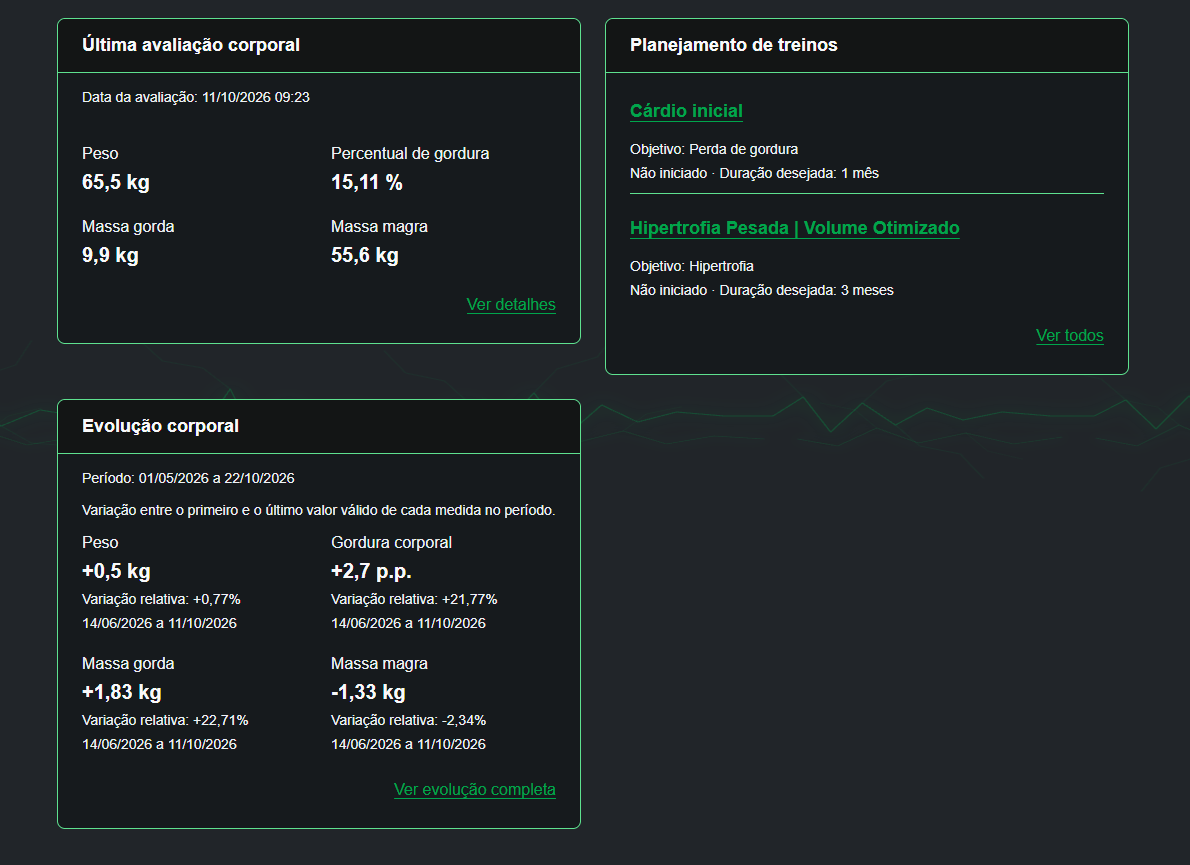
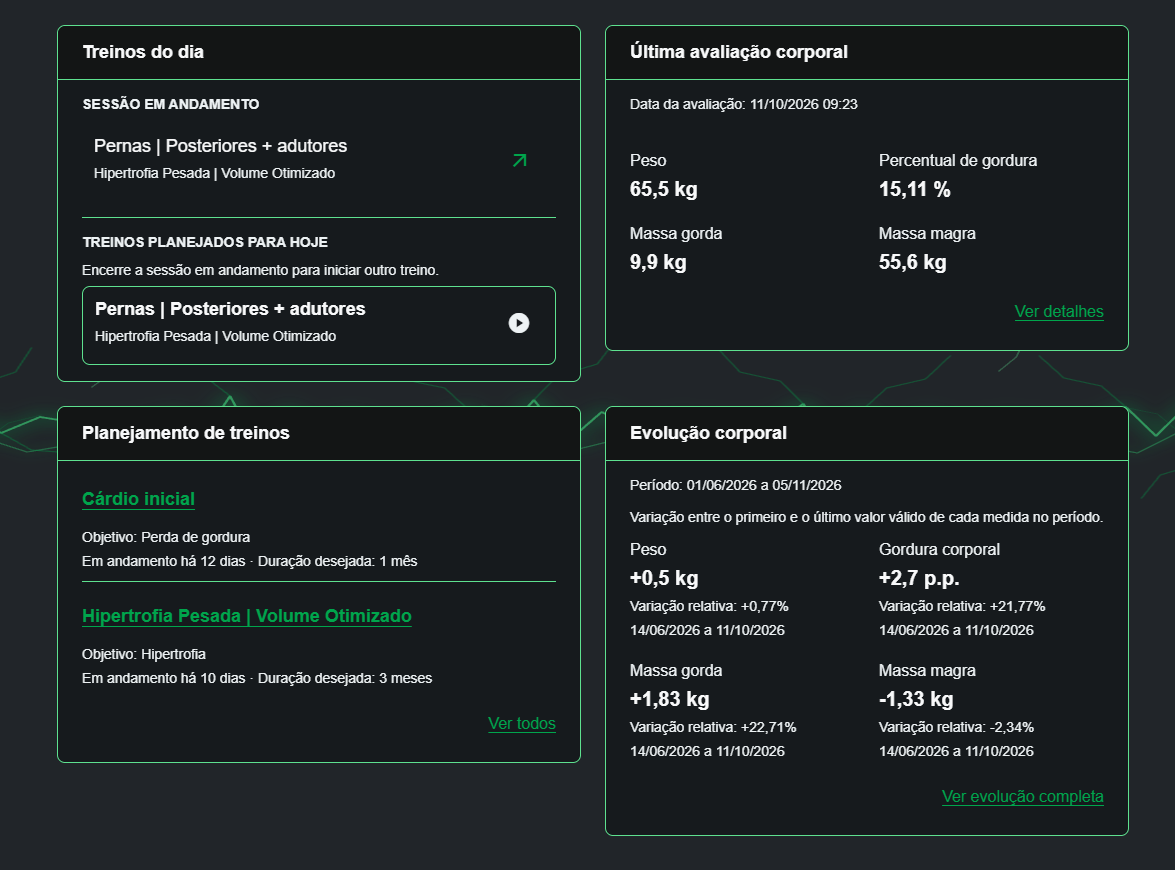
feat(showcase): add workout sessions and security updates

diff --git a/index.html b/index.html
@@ -13,7 +13,9 @@
 <meta property="og:description" content="O IronCore conecta avaliações corporais, exercícios e planejamento de treinos. Um lugar para acompanhar suas medidas e dar estrutura aos seus objetivos.">
 <meta property="og:url" content="https://renancvitor.github.io/ironcore-showcase/">
 <meta property="og:image" content="https://renancvitor.github.io/ironcore-showcase/assets/screenshots/01-home.png">
-<meta property="og:image:alt" content="Home real do IronCore com resumos de avaliação, evolução e planejamento.">
+<meta property="og:image:alt" content="Home real do IronCore com Treinos do dia, sessão em andamento, avaliação, planejamento e evolução corporal.">
+<meta property="og:image:width" content="1175">
+<meta property="og:image:height" content="870">
 <link rel="icon" type="image/svg+xml" href="assets/favicon.svg">
 <link rel="stylesheet" href="styles.css">
 <script src="script.js" defer></script>
@@ -32,13 +34,13 @@
 <div class="hero-actions"><a class="button primary" href="#funcionalidades">Ver funcionalidades <span aria-hidden="true">↓</span></a><a class="text-link" href="#engenharia">Engenharia do projeto <span aria-hidden="true">↗</span></a></div>
 <p class="hero-note">Capturas reais da aplicação</p></div>
 <div class="hero-visual"><div class="frame-label"><span class="tiny-mark" aria-hidden="true">IC /</span> VISÃO GERAL <span class="frame-right">01</span></div><figure class="capture">
-<a class="capture-link" href="assets/screenshots/01-home.png" data-image aria-label="Ampliar: Home: última avaliação corporal, evolução de medidas e resumo dos ciclos de treino.">
-<img src="assets/screenshots/01-home.png" width="1190" height="865" alt="Home: última avaliação corporal, evolução de medidas e resumo dos ciclos de treino." fetchpriority="high" decoding="async">
-</a><figcaption><span>Home com resumos de avaliação, evolução corporal e planejamento.</span><span class="expand-hint" aria-hidden="true">Ampliar ↗</span></figcaption></figure></div>
+<a class="capture-link" href="assets/screenshots/01-home.png" data-image aria-label="Ampliar: Home com Treinos do dia, sessão em andamento, avaliação, planejamento e evolução corporal.">
+<img src="assets/screenshots/01-home.png" width="1175" height="870" alt="Home com Treinos do dia, sessão em andamento, avaliação, planejamento e evolução corporal." fetchpriority="high" decoding="async">
+</a><figcaption><span>Treinos do dia e acesso à sessão em andamento, junto aos resumos de avaliação, planejamento e evolução corporal.</span><span class="expand-hint" aria-hidden="true">Ampliar ↗</span></figcaption></figure></div>
 </section>
 <section id="funcionalidades" class="journey container" aria-label="Funcionalidades do IronCore">
 <p class="eyebrow">FUNCIONALIDADES DA APLICAÇÃO</p>
-<div class="journey-links"><a href="#avaliacao"><span>01 / ACOMPANHAR</span><strong>Avaliação e evolução <span aria-hidden="true">↗</span></strong></a><a href="#exercicios"><span>02 / CONHECER</span><strong>Catálogo de exercícios <span aria-hidden="true">↗</span></strong></a><a href="#treinos"><span>03 / ORGANIZAR</span><strong>Planejamento de treinos <span aria-hidden="true">↗</span></strong></a></div>
+<div class="journey-links"><a href="#avaliacao"><span>01 / ACOMPANHAR</span><strong>Avaliação e evolução <span aria-hidden="true">↗</span></strong></a><a href="#exercicios"><span>02 / CONHECER</span><strong>Catálogo de exercícios <span aria-hidden="true">↗</span></strong></a><a href="#treinos"><span>03 / ORGANIZAR</span><strong>Planejamento de treinos <span aria-hidden="true">↗</span></strong></a><a href="#sessoes"><span>04 / REGISTRAR</span><strong>Execução e evolução de treinos <span aria-hidden="true">↗</span></strong></a></div>
 </section>
 <section id="avaliacao" class="section container" aria-labelledby="avaliacao-title">
 <div class="feature-layout"><div class="feature-copy"><p class="eyebrow">01 / AVALIAÇÃO E EVOLUÇÃO</p><h2 id="avaliacao-title">Avaliações corporais.<br><em>Histórico e evolução.</em></h2><p>Registre avaliações e reúna peso, composição corporal e circunferências. Consulte o histórico para entender o que mudou ao longo do tempo.</p>
@@ -77,7 +79,7 @@
 <section id="treinos" class="section container" aria-labelledby="treinos-title">
 <div class="feature-layout"><div class="feature-copy"><p class="eyebrow">03 / PLANEJAMENTO DE TREINOS</p><h2 id="treinos-title">Planejamento de treinos.<br><em>Ciclos, dias e atividades.</em></h2><p>Estruture ciclos de treino, distribua os dias e escolha exercícios do catálogo para compor cada atividade.</p>
 <ul class="feature-list"><li><strong>Do ciclo à atividade</strong><span>Objetivos, dias e exercícios organizados em uma composição que pode ser consultada e ajustada.</span></li><li><strong>Prescrição em detalhe</strong><span>Séries, repetições, carga, duração, distância e descanso podem coexistir conforme o planejamento.</span></li></ul>
-<p class="scope-note"><strong>O escopo desta fase</strong> O IronCore organiza o planejamento. Registro e histórico de sessões executadas ainda não estão implementados.</p></div><div><figure class="capture">
+<p class="scope-note"><strong>Planejamento e execução</strong> Workout Planning define a prescrição. <a href="#sessoes">Workout Session</a> registra o que foi realmente executado, sem preencher automaticamente os valores planejados.</p></div><div><figure class="capture">
 <a class="capture-link" href="assets/screenshots/09-treino-detalhes.png" data-image aria-label="Ampliar: Detalhe de ciclo com objetivo, dia de treino e atividade com séries, repetições, carga e descanso.">
 <img src="assets/screenshots/09-treino-detalhes.png" width="1225" height="935" alt="Detalhe de ciclo com objetivo, dia de treino e atividade com séries, repetições, carga e descanso." loading="lazy" decoding="async">
 </a><figcaption><span>Do objetivo aos detalhes de cada atividade.</span><span class="expand-hint" aria-hidden="true">Ampliar ↗</span></figcaption></figure></div></div>
@@ -93,14 +95,37 @@
 </a><figcaption><span>Escolha exercícios dentro do planejamento.</span><span class="expand-hint" aria-hidden="true">Ampliar ↗</span></figcaption></figure></div>
 <div class="gallery-controls" hidden><button type="button" data-prev aria-label="Imagem anterior — Construindo o planejamento">←</button><p class="gallery-status" aria-live="polite" aria-atomic="true"></p><button type="button" data-next aria-label="Próxima imagem — Construindo o planejamento">→</button></div></div>
 </section>
+<section id="sessoes" class="section section-tinted" aria-labelledby="sessoes-title"><div class="container">
+<div class="feature-layout"><div class="feature-copy"><p class="eyebrow">04 / EXECUÇÃO E EVOLUÇÃO DE TREINOS</p><h2 id="sessoes-title">Sessões de treino.<br><em>Registro e evolução.</em></h2><p>Inicie uma sessão a partir do planejamento, continue o treino em andamento e encerre quando terminar. Workout Session reúne os registros reais de execução e preserva as informações do treino no histórico.</p>
+<ul class="feature-list"><li><strong>O que foi executado</strong><span>Registre séries, cargas e repetições, além de duração, distância e relatos. Os dados podem ser parciais: a prescrição permanece como referência.</span></li><li><strong>Histórico que preserva o treino</strong><span>Consulte sessões encerradas por nome e período, com datas e informações preservadas mesmo após mudanças no planejamento.</span></li><li><strong>Evolução a partir dos registros</strong><span>Acompanhe carga e volume de força; para cardio, distância, duração, pace e velocidade média. Os indicadores usam os dados executados informados à aplicação.</span></li></ul>
+<p class="scope-note">A navegação de Treinos reúne planejamento, sessão em andamento, histórico e evolução. A Home oferece atalhos para iniciar ou continuar os treinos do dia.</p></div><div><figure class="capture">
+<a class="capture-link" href="assets/screenshots/12-sessao-visao-geral.png" data-image aria-label="Ampliar: Sessão de treino em andamento com status, datas, ciclo e prescrição do exercício.">
+<img src="assets/screenshots/12-sessao-visao-geral.png" width="1240" height="892" alt="Sessão de treino em andamento com status, datas, ciclo e prescrição do exercício." loading="lazy" decoding="async">
+</a><figcaption><span>A sessão iniciada mantém a prescrição como referência para o registro.</span><span class="expand-hint" aria-hidden="true">Ampliar ↗</span></figcaption></figure></div></div>
+<div class="gallery" data-gallery role="region" aria-label="Da execução à evolução dos treinos">
+<div class="gallery-heading"><h3>Da execução à evolução dos treinos</h3><span class="gallery-help">Explore as capturas</span></div>
+<div class="slides"><figure class="capture">
+<a class="capture-link" href="assets/screenshots/13-sessao-registro-execucao.png" data-image aria-label="Ampliar: Registro de execução do levantamento terra com modo de carga, cargas e repetições por série.">
+<img src="assets/screenshots/13-sessao-registro-execucao.png" width="1235" height="895" alt="Registro de execução do levantamento terra com modo de carga, cargas e repetições por série." loading="lazy" decoding="async">
+</a><figcaption><span>Cargas e repetições efetivamente registradas em cada série.</span><span class="expand-hint" aria-hidden="true">Ampliar ↗</span></figcaption></figure>
+<figure class="capture">
+<a class="capture-link" href="assets/screenshots/14-sessoes-historico.png" data-image aria-label="Ampliar: Histórico de sessões encerradas com busca, filtros de período, datas e informações preservadas dos treinos.">
+<img src="assets/screenshots/14-sessoes-historico.png" width="1710" height="891" alt="Histórico de sessões encerradas com busca, filtros de período, datas e informações preservadas dos treinos." loading="lazy" decoding="async">
+</a><figcaption><span>Consulte treinos encerrados e abra os registros de cada sessão.</span><span class="expand-hint" aria-hidden="true">Ampliar ↗</span></figcaption></figure>
+<figure class="capture">
+<a class="capture-link" href="assets/screenshots/15-treinos-evolucao-volume.png" data-image aria-label="Ampliar: Captura parcial da evolução de volume de força registrado, com gráfico e tabela em kg-rep, sem o cabeçalho da página.">
+<img src="assets/screenshots/15-treinos-evolucao-volume.png" width="1235" height="937" alt="Captura parcial da evolução de volume de força registrado, com gráfico e tabela em kg-rep, sem o cabeçalho da página." loading="lazy" decoding="async">
+</a><figcaption><span>Volume de força executado no gráfico e na tabela. Captura parcial, sem o cabeçalho da página.</span><span class="expand-hint" aria-hidden="true">Ampliar ↗</span></figcaption></figure></div>
+<div class="gallery-controls" hidden><button type="button" data-prev aria-label="Imagem anterior — Da execução à evolução dos treinos">←</button><p class="gallery-status" aria-live="polite" aria-atomic="true"></p><button type="button" data-next aria-label="Próxima imagem — Da execução à evolução dos treinos">→</button></div></div>
+</div></section>
 <section id="engenharia" class="section engineering" aria-labelledby="engenharia-title"><div class="container">
 <div class="section-intro"><div><p class="eyebrow">POR TRÁS DO IRONCORE</p><h2 id="engenharia-title">Decisões de arquitetura.<br><em>Da interface à produção.</em></h2></div><p>Responsabilidades explícitas, regras no domínio e evolução incremental. Conheça as decisões que dão estrutura à aplicação.</p></div>
 <div class="architecture" aria-label="Responsabilidades da arquitetura"><div><span class="eyebrow">APRESENTAR</span><h3>Angular 21</h3><p>Interação, navegação e estados da interface.</p><span>TypeScript · SCSS</span></div><span class="connector" aria-hidden="true">↔</span><div><span class="eyebrow">VALIDAR E COORDENAR</span><h3>Java 21 + Spring Boot 3.5</h3><p>API REST, casos de uso e regras de domínio.</p><span>Autorização · Integridade</span></div><span class="connector" aria-hidden="true">↔</span><div><span class="eyebrow">PERSISTIR</span><h3>PostgreSQL</h3><p>Dados relacionais e evolução versionada do schema.</p><span>JPA · Flyway</span></div></div>
 <div class="engineering-grid">
 <article><span class="tech-index">01 / FRONTEND</span><h3>Organização para evoluir</h3><p>Angular standalone separa infraestrutura global, componentes compartilhados, layout e funcionalidades. Rotas carregadas sob demanda evitam carregar todas as telas na entrada.</p><p>O catálogo é reutilizado na seleção de exercícios do treino, com contexto local de filtros. A interface apresenta os dados; cálculos e regras de negócio permanecem na API.</p><a class="text-link" href="https://github.com/renancvitor/ironcore-frontend/blob/main/docs/architecture/README.md">Arquitetura do frontend ↗</a></article>
 <article><span class="tech-index">02 / BACKEND</span><h3>Regras com um lugar definido</h3><p>A arquitetura em camadas, inspirada em DDD, separa domínio, aplicação, interfaces REST e infraestrutura. Controllers delegam a casos de uso; adapters implementam a persistência.</p><p>É uma abordagem pragmática: o domínio permanece independente de frameworks, enquanto a camada de aplicação utiliza serviços Spring.</p><a class="text-link" href="https://github.com/renancvitor/ironcore-backend/blob/main/docs/architecture/README.md">Arquitetura do backend ↗</a></article>
-<article><span class="tech-index">03 / DADOS</span><h3>Estrutura que acompanha o domínio</h3><p>PostgreSQL mantém as relações entre pessoas, avaliações, ciclos, dias e atividades. Flyway versiona alterações de schema e dados iniciais para reproduzir a evolução do banco entre ambientes.</p><p>Conta de acesso e pessoa são conceitos separados. As avaliações e os ciclos pertencem à pessoa vinculada ao usuário autenticado.</p><a class="text-link" href="https://github.com/renancvitor/ironcore-backend/blob/main/docs/database/README.md">Banco e migrations ↗</a></article>
-<article><span class="tech-index">04 / SEGURANÇA</span><h3>Autorização além da tela</h3><p>A aplicação usa JWT em cookie HttpOnly e Secure, com proteção CSRF nas operações de escrita. A interface restaura a sessão pela API sem persistir o token no armazenamento do navegador.</p><p>O backend verifica a propriedade dos recursos pela pessoa autenticada. O escopo atual é de usuário único, sem cadastro público.</p><a class="text-link" href="https://github.com/renancvitor/ironcore-backend/blob/main/docs/users/README.md">Autenticação e acesso ↗</a></article>
+<article><span class="tech-index">03 / DADOS</span><h3>Estrutura que acompanha o domínio</h3><p>PostgreSQL mantém avaliações, planejamento, sessões de treino, atividades e séries executadas, além das sessões de autenticação. Flyway versiona a evolução do schema.</p><p>As sessões de treino preservam uma cópia das informações do planejamento para manter o histórico. Os registros pertencem à pessoa vinculada ao usuário autenticado; conta de acesso e pessoa continuam como conceitos separados.</p><a class="text-link" href="https://github.com/renancvitor/ironcore-backend/blob/v1.3.0/docs/database/README.md">Banco e migrations ↗</a></article>
+<article><span class="tech-index">04 / SEGURANÇA</span><h3>Autorização além da tela</h3><p>Na aplicação IronCore, as sessões autenticadas são persistidas no PostgreSQL. Além de conferir a assinatura do JWT, o servidor verifica se a sessão continua válida. O access token usa cookie Secure e HttpOnly; o refresh token tem rotação e uso único.</p><p>Logout e alterações de senha revogam sessões anteriores. Há expiração por inatividade, limite absoluto de sessão, proteção CSRF e controle de tentativas de autenticação.</p><p>O frontend coordena a recuperação da sessão entre abas, sem armazenar tokens no JavaScript e sem repetir escritas automaticamente. O backend verifica a propriedade dos recursos. Este showcase é estático e não autentica usuários.</p><a class="text-link" href="https://github.com/renancvitor/ironcore-backend/blob/v1.3.0/docs/users/README.md">Autenticação e acesso ↗</a> · <a class="text-link" href="https://github.com/renancvitor/ironcore-frontend/blob/v1.2.0/docs/architecture/README.md#recuperação-e-coordenação-de-sessão">Recuperação no frontend ↗</a></article>
 <article><span class="tech-index">05 / QUALIDADE</span><h3>Testar em mais de uma camada</h3><p>Vitest verifica serviços, componentes e fluxos do frontend com HTTP simulado. No backend, JUnit e Mockito cobrem regras e casos de uso; testes de integração exercitam persistência e contratos REST.</p><p>Testcontainers aplica migrations em PostgreSQL temporário, verificando a compatibilidade entre o código e o schema real.</p><a class="text-link" href="https://github.com/renancvitor/ironcore-backend/blob/main/docs/testing/README.md">Estratégia de testes ↗</a></article>
 <article><span class="tech-index">06 / ENTREGA</span><h3>Publicações independentes</h3><p>GitHub Actions executa build e testes. No backend, o deploy automático sucede o CI aprovado na main e repete a verificação antes de enviar o artefato à VPS.</p><p>O frontend é publicado pela integração do Cloudflare Pages com GitHub, independente do CI. Essa separação exige manter os contratos compatíveis durante as atualizações.</p><a class="text-link" href="https://github.com/renancvitor/ironcore-frontend/blob/main/docs/deploy/README.md">Fluxo de publicação ↗</a></article>
 </div>
@@ -108,7 +133,7 @@
 <ol class="infra-list"><li><span>INTERFACE</span><strong>Cloudflare Pages</strong><small>Aplicação Angular estática</small></li><li><span>API · CANADÁ</span><strong>OVHcloud + Caddy</strong><small>VPS com Spring Boot e proxy reverso HTTPS</small></li><li><span>BANCO · SÃO PAULO</span><strong>Supabase PostgreSQL</strong><small>Conexão TLS a partir do backend</small></li></ol></div>
 <p class="source-note">Infraestrutura conforme documentação consultada em 22/10/2026. <a href="docs/fontes.md">Fontes e notas de revisão ↗</a></p>
 </div></section>
-<section id="historia" class="section container story" aria-labelledby="historia-title"><div><p class="eyebrow">UM PROJETO PESSOAL</p><h2 id="historia-title">Construído em etapas.<br><em>Aberto para conhecer.</em></h2></div><div><p>O IronCore nasceu como aplicação prática de backend, com foco em modelagem de domínio e evolução incremental. A primeira fase reúne a API e a interface Angular, integradas e implantadas.</p><p>Este showcase apresenta o resultado dessa construção: acompanhamento corporal, consulta de exercícios e planejamento de treinos. O código e as decisões estão documentados nos repositórios oficiais.</p>
+<section id="historia" class="section container story" aria-labelledby="historia-title"><div><p class="eyebrow">UM PROJETO PESSOAL</p><h2 id="historia-title">Construído em etapas.<br><em>Aberto para conhecer.</em></h2></div><div><p>O IronCore nasceu como aplicação prática de backend, com foco em modelagem de domínio e evolução incremental. A API e a interface Angular estão integradas e implantadas.</p><p>Este showcase apresenta o resultado dessa construção: acompanhamento corporal, consulta de exercícios, planejamento e execução de treinos, com histórico e evolução. O código e as decisões estão documentados nos repositórios oficiais.</p>
 <p>Projeto desenvolvido por <a href="https://github.com/renancvitor">Renan Vitor</a>.</p>
 <div class="repo-links"><a href="https://github.com/renancvitor/ironcore-frontend"><span>FRONTEND</span><strong>Explore a interface ↗</strong><small>Angular · TypeScript · SCSS</small></a><a href="https://github.com/renancvitor/ironcore-backend"><span>BACKEND</span><strong>Conheça o domínio ↗</strong><small>Java · Spring Boot · PostgreSQL</small></a></div></div></section>
 </main>

diff --git a/styles.css b/styles.css
@@ -70,7 +70,7 @@ figcaption { display: flex; justify-content: space-between; gap: 18px; padding: 
 .hero-visual figcaption { padding: 12px 5px 5px; font-size: .64rem; }
 .journey { border-top: 1px solid var(--line); padding: 30px 0 36px; }
 .journey .eyebrow { color: var(--muted); font-size: .63rem; margin-bottom: 22px; }
-.journey-links { display: grid; grid-template-columns: repeat(3, 1fr); gap: 30px; }
+.journey-links { display: grid; grid-template-columns: repeat(4, minmax(0, 1fr)); gap: 30px; }
 .journey-links a { text-decoration: none; border-right: 1px solid var(--line); padding-right: 30px; }
 .journey-links a:last-child { border: 0; padding: 0; }
 .journey-links a > span { display: block; font: .62rem Consolas, monospace; color: var(--green); letter-spacing: .07em; margin-bottom: 12px; }
@@ -149,6 +149,8 @@ dialog::backdrop { background: rgb(19 21 21 / 92%); }
 .lightbox-footer a { font-size: .75rem; }
 @media (min-width: 1600px) { .hero { padding-block: 110px; } }
 @media (max-width: 1050px) {
+  .journey-links { grid-template-columns: repeat(2, minmax(0, 1fr)); }
+  .journey-links a:nth-child(2) { border-right: 0; padding-right: 0; }
   .container { width: calc(100% - 56px); }
   .hero { gap: 30px; }
   .hero-actions { gap: 20px; }

diff --git a/docs/guia-imagens.md b/docs/guia-imagens.md
@@ -1,19 +1,19 @@
 # IronCore Showcase — Pacote de capturas e orientação visual
 
-Data: 22/10/2026 · Escopo: frontend/backend v1.0.0
+Atualizado em 05/11/2026 · Escopo: frontend v1.2.0 / backend v1.3.0. Seleção inicial de 22/10/2026 preservada, com substituição da Home e quatro adições.
 
 ## Finalidade
 
-Este pacote contém **10 imagens principais**, **1 captura complementar opcional**, originais correspondentes, um manifesto de proveniência e um briefing atualizado. Deve ser enviado para uma nova sessão de ChatGPT ou Codex junto com o contexto do projeto.
+O showcase utiliza **14 imagens principais**: as dez posições anteriores, com a Home substituída, mais as capturas 12–15. O manifesto preserva o registro da **captura complementar opcional 11**, fora da publicação. O pacote adicional `ironcore-showcase-capturas-nov2026` foi incorporado conforme `LEIA-ME-PACOTE.md` e `checksums.json` fornecidos pelo responsável.
 
-**Nenhum dado, texto, número, componente, cor ou estado da interface foi editado.** As versões de publicação foram produzidas exclusivamente com recorte retangular sem redimensionamento nem preenchimento. Os originais são preservados em `originais/` para comparação. Os trechos de tooltip “Abrir menu” ficam fora dos recortes. As barras de rolagem continuam nos originais; nas versões enquadradas, em geral estão fora do foco do recorte. Não afirmar que é uma captura de tela completa quando ela for apenas uma região da interface.
+**Nenhum dado, texto, número, componente, cor ou estado da interface foi editado.** Os PNGs fornecidos foram copiados sem redimensionamento, recompressão ou novos recortes. Os recortes registrados no manifesto são de proveniência do material recebido. Referências a `originais/` nas capturas históricas identificam o pacote de origem; esses arquivos não estão no repositório nem no artefato público. Os originais do pacote adicional também não foram fornecidos nesta pasta: suas dimensões e hashes são declarações do fornecedor. Os hashes dos cinco PNGs incorporados foram conferidos contra `checksums.json`. Não afirmar que é uma captura de tela completa quando ela for apenas uma região da interface.
 
 **A imagem do perfil foi deliberadamente excluída**, incluindo o original, porque contém nome completo e data de nascimento reais. Não usar esse print. Para incluir o módulo futuramente, solicitar nova captura sem esses dados.
 
 ## Arquitetura da apresentação
 
 ### Abertura / Hero (imagem fixa)
-- `01-home.png`: imagem principal única (não carrossel). Apresentar o IronCore como aplicativo de acompanhamento corporal e planejamento de treinos.
+- `01-home.png` (1175×870): imagem principal única (não carrossel), substituída pela Home com quatro cards: Treinos do dia e sessão em andamento, última avaliação, planejamento e evolução corporal. Preservar o texto aprovado da introdução.
 - Usar em moldura leve, com proporção original e sem cortar novamente elementos funcionais. O hero deve ter texto próprio do site, nunca escrever textos sobre a captura.
 
 ### Avaliação corporal (destaque + galeria de 3 telas)
@@ -32,6 +32,14 @@ Este pacote contém **10 imagens principais**, **1 captura complementar opcional
 - **Galeria manual:** `08-treinos-catalogo.png` → `10-treino-selecao-exercicios.png`.
 - Legendas: "Organize ciclos por objetivo" e "Escolha exercícios dentro do planejamento".
 - `extras/11-treino-atividades-complemento.png` fica **fora do roteiro principal**: usar apenas se a seção técnica precisar evidenciar prescrições mais detalhadas. É uma continuação do detalhe de ciclo, **não** um formulário de criação/edição.
+
+### Execução e evolução de treinos (destaque + galeria de 3 telas)
+- **Destaque:** `12-sessao-visao-geral.png` (1240×892) — sessão em andamento, status, datas e prescrição como referência.
+- **Galeria manual:** `13-sessao-registro-execucao.png` (1235×895) → `14-sessoes-historico.png` (1710×891) → `15-treinos-evolucao-volume.png` (1235×937).
+- A captura 13 mostra cargas e repetições efetivamente registradas; a 14 mostra filtros, datas e informações históricas, além da navegação reorganizada de Treinos.
+- A captura 15 é **parcial**, com gráfico e tabela de volume de força registrado em kg-rep, sem cabeçalho da página. Não representa a interface completa nem indicadores de cardio.
+- Workout Planning define a prescrição; Workout Session registra a execução. Indicadores de força e cardio podem ser descritos conforme os contratos oficiais, sem gerar imagens para métricas não capturadas.
+- A numeração 12–15 não substitui a captura opcional 11. A antiga captura de Perfil tinha número 12 na coleta histórica, mas foi excluída e não corresponde ao arquivo atual `12-sessao-visao-geral.png`.
 
 ### Engenharia / Por trás do IronCore
 - Nenhum screenshot novo obrigatório. Apresentar a arquitetura por texto e, caso necessário, diagrama desenhado em HTML/SVG com fatos documentados. Nunca representar telas inexistentes nem fluxos futuros como implementados.
@@ -54,13 +62,14 @@ Este pacote contém **10 imagens principais**, **1 captura complementar opcional
 2. Avaliação corporal: detalhe (`03`), histórico (`02`), gráfico (`04`) e comparativo (`05`).
 3. Exercícios: catálogo (`06`) e detalhe (`07`).
 4. Planejamento: detalhe (`09`), catálogo (`08`) e seleção (`10`).
-5. Engenharia: decisões técnicas, stack, deploy e links de repositórios.
+5. Execução e evolução: sessão (`12`), execução (`13`), histórico (`14`) e volume de força (`15`).
+6. Engenharia: decisões técnicas, persistência de execução e autenticação, stack, deploy e links de repositórios.
 
 A numeração dos arquivos segue a coleta original; **a ordem editorial é a lista acima**.
 
 ## Limites e cuidados de privacidade
 
-- A captura de Perfil original (#12) não faz parte do pacote; não requisitar/exibir sem nova versão segura.
+- A captura de Perfil original (número 12 na coleta histórica, sem relação com `12-sessao-visao-geral.png`) não faz parte da seleção; não requisitar/exibir sem nova versão segura.
 - Outras imagens mostram dados de corpo e treino do proprietário. Ele autorizou manter esses conteúdos reais, mas uma revisão final de privacidade antes de deixar o site público continua recomendada.
 - Nenhuma captura deve ser apresentada como dados fictícios se ela representa dados reais; o site pode dizer "capturas reais da aplicação".
 - Prints cortados são recortes autênticos da UI, não páginas inteiras.
@@ -70,6 +79,6 @@ A numeração dos arquivos segue a coleta original; **a ordem editorial é a lis
 
 - [Briefing](briefing.md): briefing da história e requisitos, atualizado com a decisão de imagens.
 - [Manifesto das imagens](../manifesto-imagens.json): descrição dos crops, localização dos originais e usos editoriais.
-- `visao-geral.jpg`: contato visual para revisão humana (não publicar como uma tela da aplicação).
+- Materiais dos pacotes de origem (originais, ZIP, contato visual e instruções) não integram a publicação. O empacotador seleciona apenas as capturas com `state: principal`, além dos arquivos estáticos e da fonte documental pública autorizada.
 
 [Voltar para o índice de documentação](README.md)

diff --git a/docs/validacao.md b/docs/validacao.md
@@ -61,4 +61,29 @@ Executadas após a sincronização com o merge do PR #2 (9299cef). O diretório 
 - Conferidas a introdução exata, os metadados e a ausência das expressões removidas nessas quatro larguras. Inspeção visual desktop/mobile concluída.
 - Capturas, script.js, estilos e briefing idênticos ao estado sincronizado da main. Nenhuma dependência adicionada; publicação não acionada.
 
+## Atualização funcional e de segurança — 05/11/2026
+
+Os resultados anteriores são históricos. As verificações desta atualização local estão limitadas ao que segue.
+
+### Verificações executadas
+
+- Leitura do `LEIA-ME-PACOTE.md` e de `checksums.json` do pacote adicional antes da incorporação. Inspeção visual dos cinco PNGs recebidos.
+- Consulta somente leitura às releases oficiais backend v1.3.0 e frontend v1.2.0, aos documentos de Workout Session de ambas as tags, Users/Auth e banco do backend e arquitetura/autenticação do frontend. Conteúdo conferido contra essas fontes; nenhum teste autenticado ou acesso ao banco.
+- Integridade: SHA-256 dos cinco PNGs incorporados idêntico ao pacote e aos checksums fornecidos. As nove imagens anteriores de 02 a 10 mantêm os hashes obtidos antes da alteração. Não houve recorte, recompressão ou redimensionamento. Os originais upstream não estavam no pacote: seus hashes/dimensões são proveniência declarada pelo fornecedor, sem nova validação de pixels contra os originais.
+- Manifesto JSON lido com sucesso; 14 capturas principais. Dimensões verificadas nos cabeçalhos PNG e confrontadas com manifesto e atributos HTML. Registros históricos 02–11 preservados integralmente, incluindo a captura opcional 11 não publicada. A captura 15 está identificada como parcial.
+- HTML: 48 referências locais de `href`/`src` conferidas, com arquivos e âncoras existentes, sem IDs duplicados; 14 links de ampliação e três galerias. Avaliação mantém quatro capturas, catálogo duas, planejamento três e sessão acrescenta quatro; Home ocupa a posição restante. Legendas e textos alternativos conferidos.
+- Texto superior, título e descrição aprovados do hero conferidos literalmente. Home, nova seção, separação entre prescrição e execução, persistência e card de segurança revisados. Links relativos de arquivos nos quatro documentos afetados conferidos.
+- Inspeção da seleção de `scripts/package.mjs`: passa a selecionar 20 arquivos existentes (seis arquivos estáticos/documentais e 14 PNGs) pelo manifesto. Originais, opcionais, ZIP, ferramentas e documentos de preparação não são selecionados. Os links documentais de `docs/fontes.md` para outros documentos usam o repositório oficial, evitando depender de documentos ausentes no pacote público. Esta inspeção não equivale à geração/auditoria de `dist/`.
+- Inspeção do JavaScript existente: galerias e ampliação selecionam elementos por atributos, sem contagem fixa. A nova galeria reutiliza a mesma estrutura; fallback com links diretos, controles ocultos antes da melhoria por JavaScript e estilos de movimento reduzido permanecem presentes. Fluxos de teclado, fechamento e retorno de foco foram revisados no código, sem execução de navegador nesta etapa.
+- Navegação CSS ajustada para quatro colunas no desktop, duas até 1050 px e uma até 760 px, por inspeção das regras. A identidade visual e os componentes existentes foram preservados.
+- `node --check script.js`, `node --check scripts/package.mjs` e `node --check scripts/browser-check.mjs`: aprovados (código de saída 0). A primeira tentativa foi bloqueada pelo sandbox (`EPERM` ao resolver o caminho do usuário); a repetição autorizada fora do sandbox passou. A sintaxe foi verificada com Node.js 18.20.8, sem executar os scripts.
+- Script de teste de navegador atualizado para a expectativa de 14 capturas; não executado. `script.js`, `scripts/package.mjs` e workflow de publicação não exigiram alterações.
+
+### Limitações e pendências
+
+- Empacotamento e servidor local não executados. O Node.js disponível é 18.20.8; os scripts existentes utilizam `import.meta.dirname`, ausente nessa versão, e o workflow usa Node.js 24. Não foi instalada ou atualizada ferramenta alguma.
+- Testes de navegador e revisão renderizada desktop/mobile não executados. O Edge está disponível, mas o módulo local esperado `.qa/node_modules/playwright-core` não existe; o servidor/empacotador também depende de Node compatível. Não foram confirmados nesta revisão overflow, navegação/foco, ampliação ou fallback em execução.
+- Em ambiente já compatível, pendem `node scripts/package.mjs` e, com o servidor `node scripts/serve.mjs` ativo e Playwright previamente disponível, `node scripts/browser-check.mjs`. Não instalar ferramentas neste computador para suprir essas pendências.
+- Nenhum comando Git, branch, commit, PR, alteração dos projetos pais, deploy ou acionamento de workflow. Alterações exclusivamente locais, prontas para revisão estática; publicação e validações de execução ficam a cargo do responsável.
+
 [Voltar para o índice de documentação](README.md)

diff --git a/README.md b/README.md
@@ -29,7 +29,7 @@
 
 <h2 id="visao-geral-do-projeto" align="center">Visão Geral do Projeto</h2>
 
-**IronCore Showcase** é a apresentação pública do IronCore, um projeto pessoal de acompanhamento corporal e planejamento de treinos. O site reúne capturas reais da aplicação e uma seção dedicada à engenharia do projeto.
+**IronCore Showcase** é a apresentação pública do IronCore, um projeto pessoal de acompanhamento corporal, planejamento e execução de treinos. O site reúne capturas reais da aplicação e uma seção dedicada à engenharia do projeto.
 
 <p align="right"><a href="#sumario">⬆ Voltar ao sumário</a></p>
 
@@ -56,9 +56,10 @@ O showcase está concluído e publicado no GitHub Pages, com apresentação das 
 
 <h2 id="funcionalidades-disponiveis" align="center">Funcionalidades Disponíveis</h2>
 
-- Apresentação de avaliações corporais, exercícios e planejamento de treinos.
+- Apresentação de avaliações corporais, exercícios, Workout Planning e Workout Session, com histórico e evolução de força e cardio.
 - Galerias manuais e ampliação de capturas reais.
 - Seção sobre arquitetura, tecnologias e infraestrutura do IronCore.
+- Autenticação da aplicação com sessões persistidas, renovação de tokens e revogação no servidor, descrita no card de segurança; o showcase permanece estático.
 - História, autoria e links para os repositórios oficiais.
 - Layout responsivo e navegação acessível.
 
